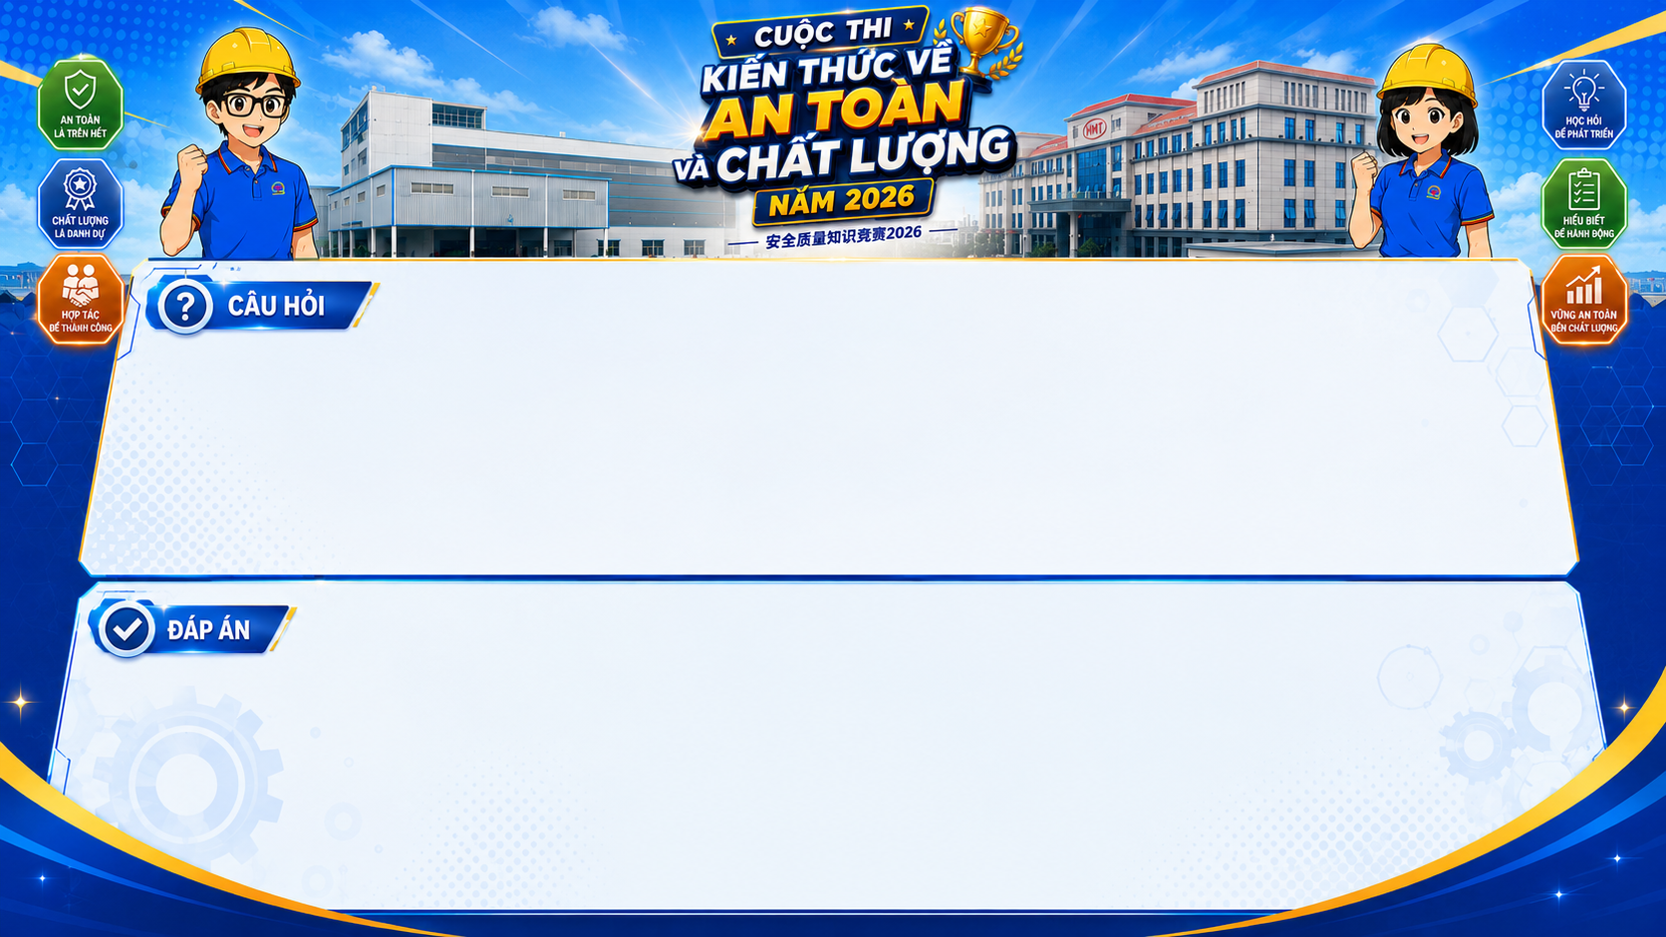
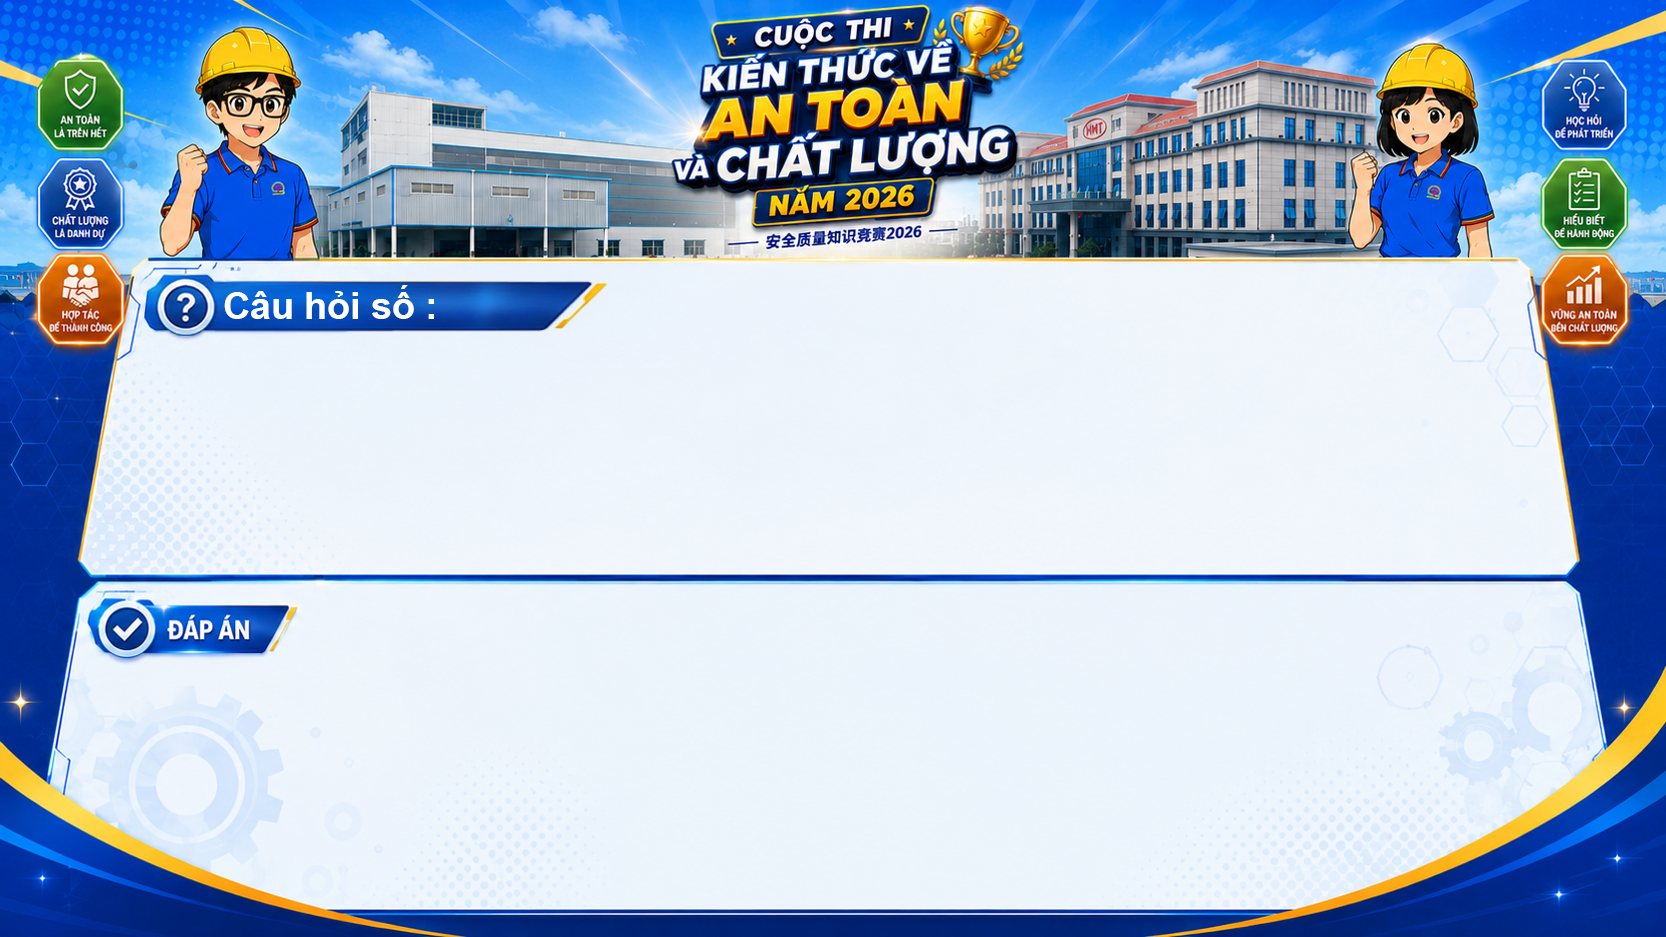
Add question ID display and improve styling in Q&A interface

Changed region(s): [[0.0936, 0.2785, 0.3745, 0.3714]]

diff --git a/public/js/wheel.js b/public/js/wheel.js
@@ -15,6 +15,7 @@
     const reel3 = document.getElementById('reel3');
 
     const questionBox = document.getElementById('questionBox');
+    const questionIdBox = document.getElementById('questionIdBox');
     const answerBox = document.getElementById('answerBox');
     const remainInfo = document.getElementById('remainInfo');
 
@@ -228,8 +229,9 @@
             spinAudio.currentTime = 0;
         }
 
-        // Show question
+        // Show question and its ID
         questionBox.innerText = `${question.question}`;
+        questionIdBox.innerText = `${selectedId}`;
 
         // IMPORTANT FIX: store full object (not only string)
         resetAnswer();

diff --git a/resources/views/quesandans.blade.php b/resources/views/quesandans.blade.php
@@ -1,4 +1,4 @@
-<!doctype html>
+<!DOCTYPE html>
 <html lang="vi">
 <head>
     <meta charset="utf-8">
@@ -7,6 +7,7 @@
     <title>Cuộc thi kiến thức an toàn và chất lượng</title>
     <link rel="icon" href="{{ asset('image/iconHMT.ico') }}">
     <style>
+        /* Reset & base styles */
         * {
             margin: 0;
             padding: 0;
@@ -29,6 +30,7 @@
             height: 100%;
         }
 
+        /* GRID OVERLAY WITH RESTORED COLORS – VISIBLE LAYOUT GUIDES */
         .grid-overlay {
             position: absolute;
             top: 0;
@@ -38,37 +40,87 @@
             display: grid;
             grid-template-columns: repeat(24, 1fr);
             grid-template-rows: repeat(24, 1fr);
-            pointer-events: none;
+            /* pointer-events: none;   */
         }
 
-        .textbox-1 {
-            grid-column: 5 / 20;
-            grid-row: 10 / 15;
+
+        .grid-overlay > div {
             background-color: transparent;
-            padding: 15px;
-            font-size: 25px;
-            pointer-events: auto;
+            border: 1px solid transparent;
+            transition: all 0.1s ease;
+            /* pointer-events: none; */
         }
 
-        .textbox-2 {
-            grid-column: 5 / 20;
-            grid-row: 18 / 23;
+        /* Optional hover effect to highlight cells (does not affect functionality) */
+        .grid-overlay > div:hover {
             background-color: transparent;
-            padding: 15px;
-            font-size: 25px;
+            border-color: transparent;
+        }
+
+        /* Text containers – transparent background, placed above grid */
+        .textbox-1,
+        .textbox-2,
+        .question-id-box {
             pointer-events: auto;
+            z-index: 5;
         }
 
         .textbox-1,
         .textbox-2 {
+            background-color: transparent !important;
+            border: none !important;
+            pointer-events: auto;
+            z-index: 5;
+        }
+
+        .question-id-box {
+            grid-column: 7 / 9;
+            grid-row: 8 / 10;
+            padding: 12px 16px;
+            font-size: 32px;
+            font-weight: bold;
+            display: flex;
+            justify-content: center;
+            align-items: center;
+            color: white;
+            text-shadow: 0 1px 2px rgba(255,255,255,0.6);
+            background: rgba(255, 255, 255, 0.75);
+            text-align: center;
+        }
+
+        /* Question area (grid position: columns 5-20, rows 10-15) */
+        .textbox-1 {
+            grid-column: 5 / 20;
+            grid-row: 10 / 15;
+            padding: 15px;
+            font-size: 25px;
             display: flex;
             justify-content: center;
             align-items: center;
             text-align: center;
             white-space: pre-wrap;
+            color: #1e2a3a;
+            font-weight: bold;
+            text-shadow: 0 1px 2px rgba(255,255,255,0.6);
         }
 
-        /* Overlay with backdrop-filter - blurs only the background content */
+        /* Answer area (grid position: columns 5-20, rows 18-23) */
+        .textbox-2 {
+            grid-column: 5 / 20;
+            grid-row: 18 / 23;
+            padding: 15px;
+            font-size: 25px;
+            display: flex;
+            justify-content: center;
+            align-items: center;
+            text-align: center;
+            white-space: pre-wrap;
+            color: #1e2a3a;
+            font-weight: bold;
+            text-shadow: 0 1px 2px rgba(255,255,255,0.6);
+        }
+
+        /* Overlay with backdrop-filter – blurs only the background content */
         .slot-overlay {
             position: fixed;
             top: 0;
@@ -81,7 +133,7 @@
             display: none;
         }
 
-        /* Slot machine container - placed above the overlay, not blurred */
+        /* Slot machine container – appears above overlay, not blurred */
         .slot-container {
             position: fixed;
             top: 50%;
@@ -137,6 +189,7 @@
             box-shadow: 0 2px 0 #b37b00;
         }
 
+        /* Button to toggle slot machine visibility */
         .toggle-slot-btn {
             position: fixed;
             bottom: 20px;
@@ -152,6 +205,7 @@
             box-shadow: 0 2px 5px rgba(0, 0, 0, 0.2);
         }
 
+        /* Remaining questions counter */
         .remain-info {
             position: fixed;
             bottom: 20px;
@@ -165,7 +219,7 @@
             pointer-events: none;
         }
 
-        /* Nút câu hỏi tiếp theo */
+        /* Next question button */
         .next-question-btn {
             position: fixed;
             bottom: 80px;
@@ -213,7 +267,7 @@
             transform: translateY(2px);
         }
 
-        /* Nút xem đáp án trong textbox-2 */
+        /* Answer reveal button (can be injected by JS) */
         .view-answer-btn {
             background-color: #4CAF50;
             color: white;
@@ -236,7 +290,21 @@
             .spin-slot-btn { width: 140px; height: 55px; font-size: 22px; }
             .next-question-btn { bottom: 70px; font-size: 14px; padding: 8px 16px; }
             .remain-info { bottom: 20px; font-size: 12px; }
+            .question-id-box { font-size: 22px; padding: 10px 14px; }
+            /* .grid-overlay > div {
+                border-width: 0.5px;
+                background-color: rgba(65, 105, 225, 0.1);
+            } */
         }
+
+        /* Utility class to temporarily hide grid colors (toggle via Ctrl+Alt+G) */
+        /* .grid-overlay.hide-grid > div {
+            background-color: transparent;
+            border-color: transparent;
+        }
+        .grid-overlay.hide-grid > div:hover {
+            background-color: transparent;
+        } */
     </style>
 </head>
 <body>
@@ -250,6 +318,7 @@
     <div class="grid-overlay">
         @for ($i = 0; $i < 576; $i++) <div style="pointer-events: none;"></div> @endfor
         <div class="textbox-1" id="questionBox" contenteditable="false" placeholder="Câu hỏi sẽ xuất hiện ở đây..."></div>
+        <div class="question-id-box" id="questionIdBox"></div>
         <div class="textbox-2" id="answerBox" contenteditable="false" placeholder="Đáp án sẽ hiện ở đây..."></div>
     </div>
 
